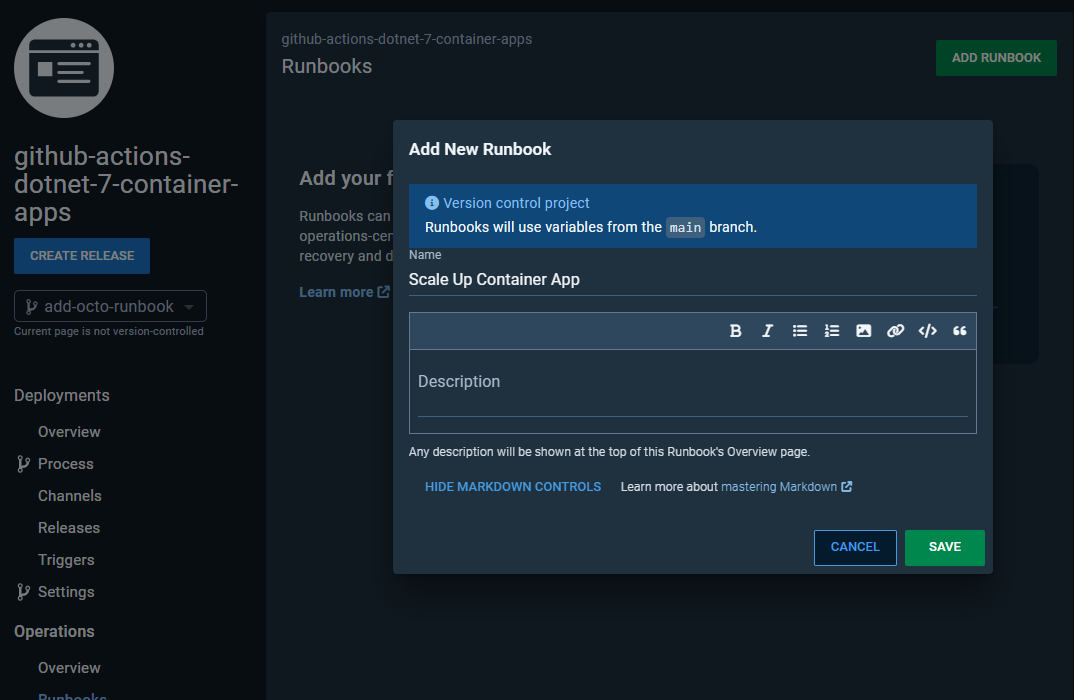
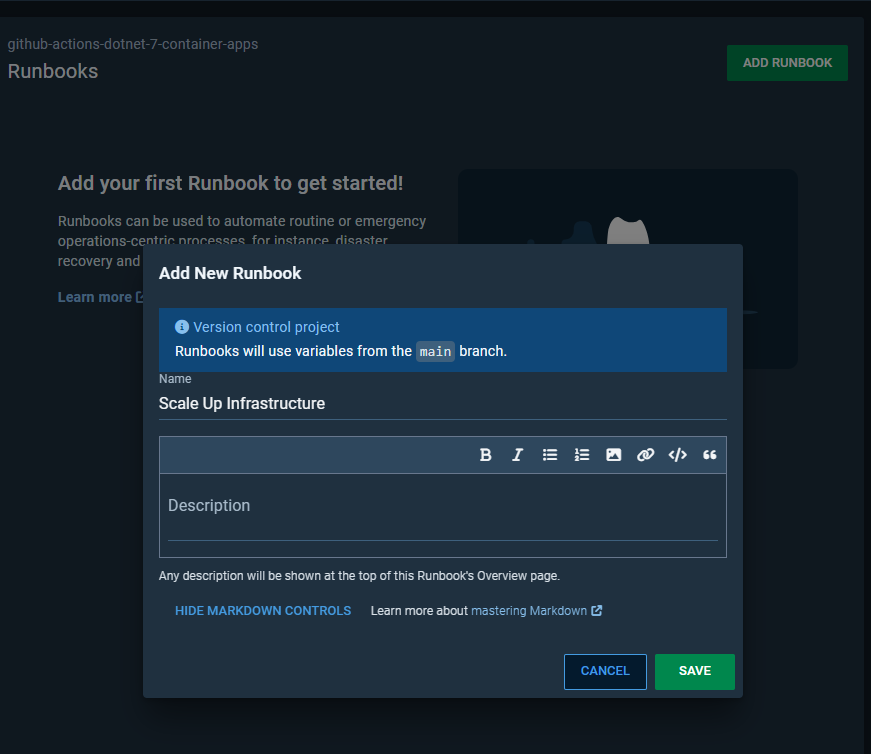
updated scaling script. Updated readme

diff --git a/README.md b/README.md
@@ -389,19 +389,22 @@ Push a commit to trigger Github Actions to run the pipeline.
 
 # Octopus Deploy Runbook Setup:
 
-In the ChurchBulletin.Scripts package that is created there is a script called ScaleContainerApp.ps1. When provided with an appReplicas value the script will set the min and max number of replicas of the container app to that value. This is used with Octopus Runbooks ([Runbooks Documentation](https://octopus.com/docs/runbooks#:~:text=To%20create%20or%20manage%20your,%E2%9E%9C%20Runbooks%20%E2%9E%9C%20Add%20Runbook.)) to scale up the instances of the container app for day and nighttime loads.
+In the ChurchBulletin.Scripts package that is created there is a script called ScaleInfrastructure.ps1. When provided with appReplicas and/or serviceObjective values the script will set the min and max number of replicas of the container app and the service objective of the database. This is used with Octopus Runbooks ([Runbooks Documentation](https://octopus.com/docs/runbooks#:~:text=To%20create%20or%20manage%20your,%E2%9E%9C%20Runbooks%20%E2%9E%9C%20Add%20Runbook.)) to scale up and down the infrastructure for day and nighttime loads.
 
 ## Create ContainerAppReplicas variable
 
-In your Octopus Deploy project, create a new variable named **ContainerAppReplicas** and give it an integer value. e.g. 2
-Commit this variable to main. **Variables not in the default branch will not be accessible to runbooks**
+In your Octopus Deploy project, create two new variables
+- **ContainerAppReplicas** and give it an integer value. e.g. 2
+- **DBScaledUpPerformanceLevel** and give it service objective value. e.g. S0
+
+Commit these variables to main. **Variables not in the default branch will not be accessible to runbooks**
 
 ![Alt text](images/Replicas1.png)
 
 ## Create Scale Up Runbook
 
 - In your Octopus Deploy project, navigate to Operations -> Runbooks and select ADD RUNBOOK
-- Name the runbook Scale Up Container App
+- Name the runbook Scale Up Infrastructure
 - Select Save
 ![Alt text](images/runbook1.png)
 
@@ -417,7 +420,7 @@ Commit this variable to main. **Variables not in the default branch will not be 
 
 - Select ADD
 
-- Name the step **Scale Up Container App**
+- Name the step **Scale Up Infrastructure**
 - Leave Execution Location, Worker Pool, Container Image, and Azure Tools as default
 
 - Under Azure -> Account select the chain links icon to bind the account value to a variable. Then set the value to **#{AzureAccount}** 
@@ -427,8 +430,8 @@ Commit this variable to main. **Variables not in the default branch will not be 
 - Under Script Source select **Script file inside a package** 
 - Under Script File in Package set the Package feed to the feed that was created.
 - Set the Package ID to **ChurchBulletin.Script**
-- Set the Script file name to **ScaleContainerApp.ps1**
-- Set the Script parameters to **-appReplicas #{ContainerAppReplicas}**
+- Set the Script file name to **ScaleInfrastructure.ps1**
+- Set the Script parameters to **-appReplicas #{ContainerAppReplicas} -$serviceObjective #{DBScaledUpPerformanceLevel}**
 
 ![Alt text](images/runbook5.png)
 
@@ -438,18 +441,18 @@ Leave the rest of the settings at default, and select SAVE
 
 Create another runbook named Scale Down Container App using the same directions.
 
-- Change the Step Name to **Scale Down Container App**
-- Set the Script parameters to **-appReplicas 1**
+- Change the Step Name to **Scale Down Infrastructure**
+- Leave the Script Parameters blank
 
 ## Publish the runbooks
 
 Runbooks must be published before they can be consumed by triggers.
 
-- Navigate to the Scale Up Container App runbook. Select PUBLISH
-![Alt text](images/runbook7.png)
+- Navigate to the Scale Up Infrastructure runbook. Select PUBLISH
+![Alt text](images/runbook6.png)
 - Leave the default settings, and select PUBLISH
-![Alt text](images/runbook8.png)
-- Do the same for Scale Down Container App
+![Alt text](images/runbook7.png)
+- Do the same for Scale Down Infrastructure
 
 ## Create Scheduled Runbook Triggers
 ([Runbook Triggers Documentation](https://octopus.com/docs/runbooks/scheduled-runbook-trigger))
@@ -457,7 +460,7 @@ Runbooks must be published before they can be consumed by triggers.
 - Navigate to Operations -> Triggers
 - Select ADD SCHEDULED TRIGGER
 - Name the trigger Scale Up Morning
-- Under Runbook select Scale Up Container App
+- Under Runbook select Scale Up Infrastructure
 - Under Target Environments select Prod
 - Leave the schedule at Daily
 - Under Run Days uncheck Saturday and Sunday
@@ -476,7 +479,7 @@ Runbooks must be published before they can be consumed by triggers.
 - Set the Start Time to 6:00 PM
 - Click Save
 
-Now the container app will automatically be scaled up two multiple instances every morning, and scaled down to a single instance every
+Now the container app and database will automatically be scaled up every morning, and scaled down every evening
 
 # Build and Test
 TODO: Describe and show how to build your code and run the tests. 
